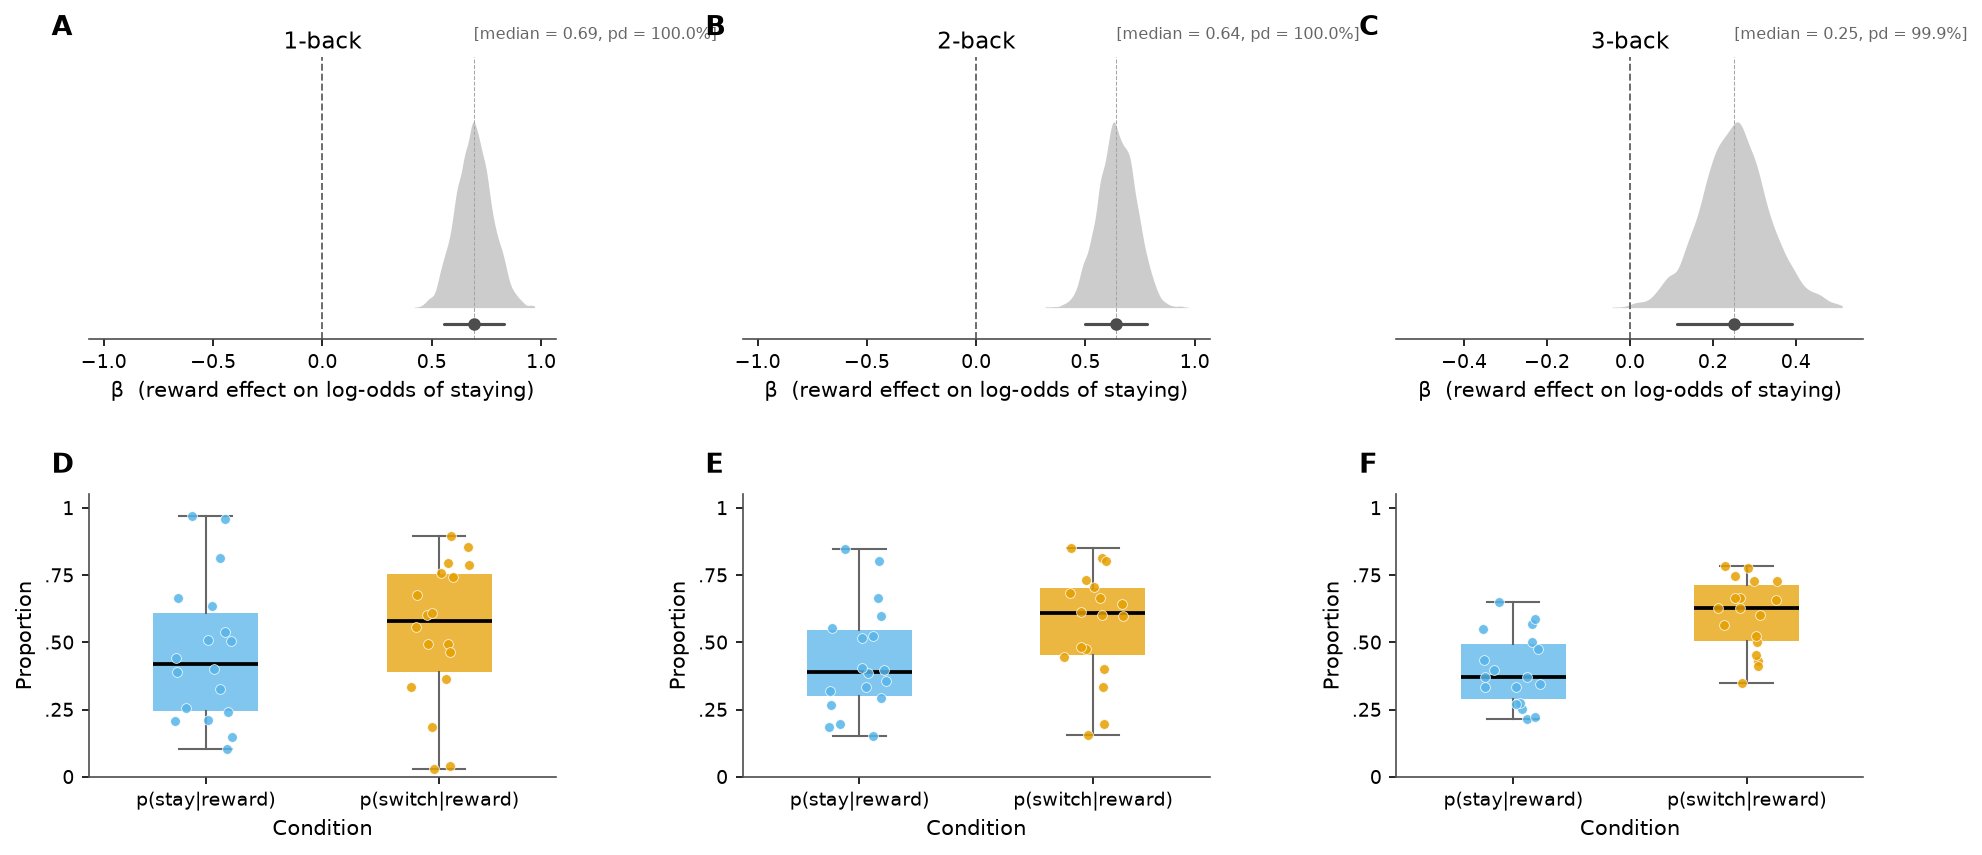
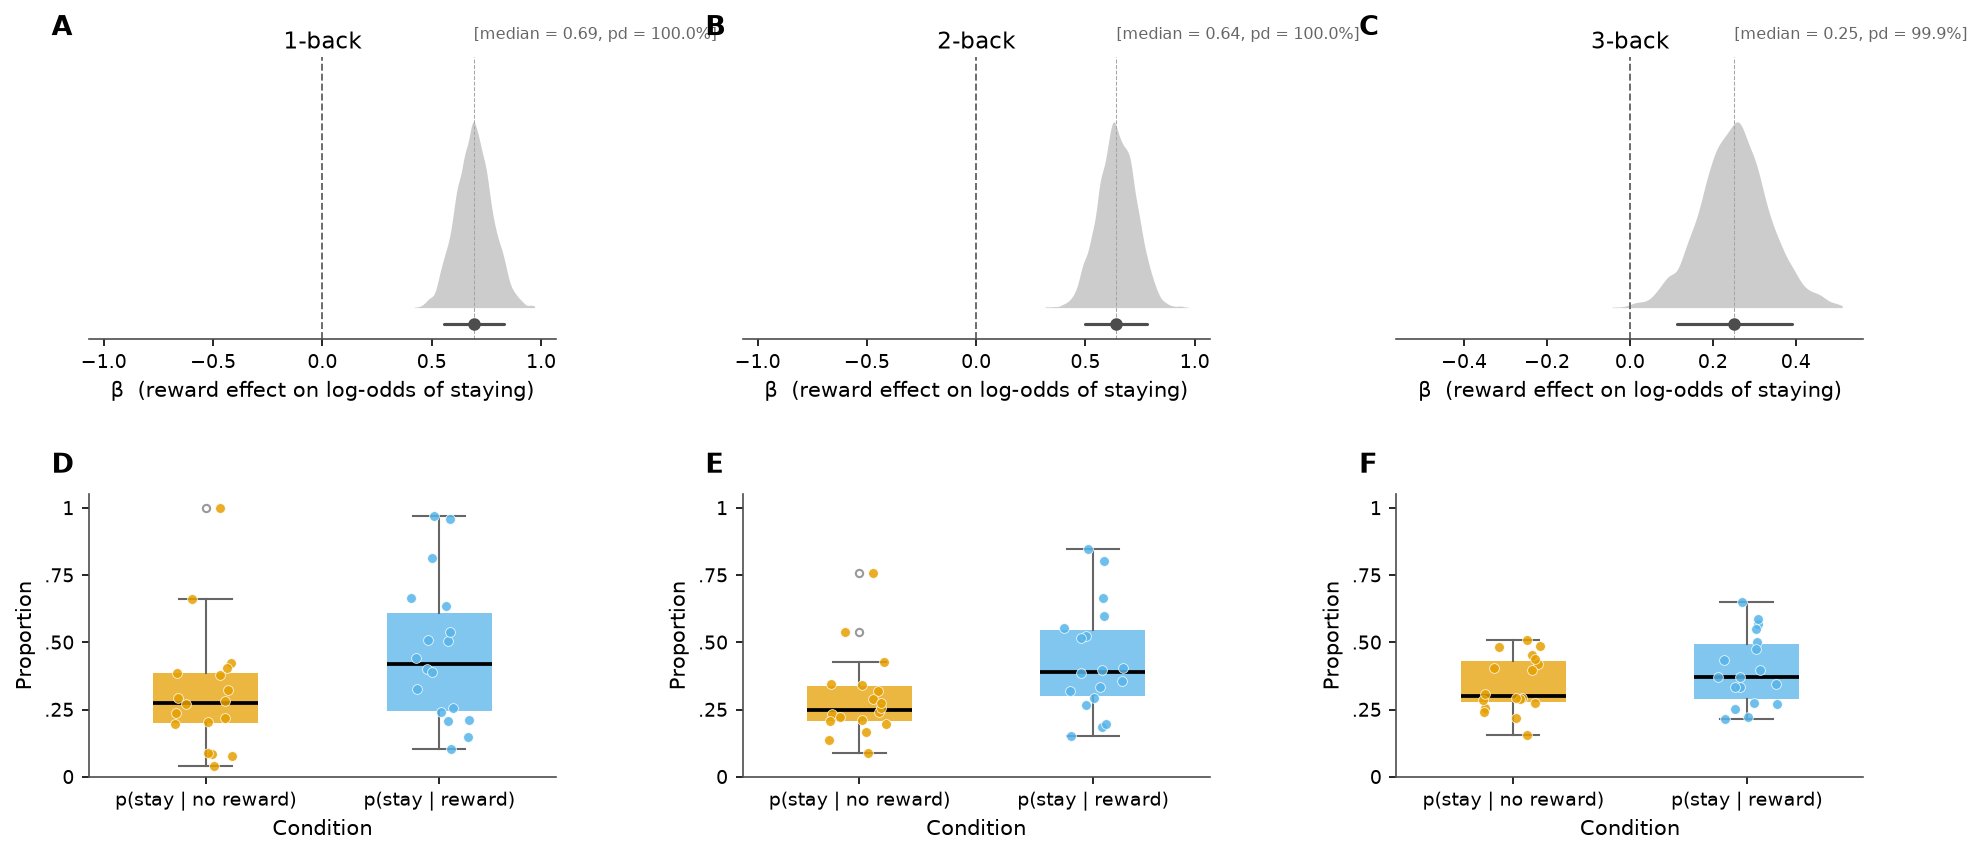
Fix boxplots: show p(stay|reward=0) vs p(stay|reward=1) per subject
Replaces the misleading p(stay) vs p(switch) comparison with the correct
WSLS comparison — p(stay) conditioned on the two reward outcomes.

Claude-Session: https://claude.ai/code/session_012x9xnxMCjZRKf3pY757v2o

diff --git a/analysis/wsls_pilot/run_wsls_pilot.py b/analysis/wsls_pilot/run_wsls_pilot.py
@@ -99,16 +99,14 @@ def fit_bayesian(df_lag):
     return idata.posterior["beta"].values.reshape(-1)
 
 def subj_props(df_lag):
-    rewarded = df_lag[df_lag["reward_nback"] == 1]
-    props = (
-        rewarded
-        .groupby("participant")["stay"]
+    """Per-subject p(stay|reward=1) and p(stay|reward=0)."""
+    return (
+        df_lag
+        .groupby(["participant", "reward_nback"])["stay"]
         .mean()
         .reset_index()
-        .rename(columns={"stay": "p_stay"})
+        .rename(columns={"stay": "p_stay", "reward_nback": "reward"})
     )
-    props["p_switch"] = 1 - props["p_stay"]
-    return props
 
 # ── panel helpers ─────────────────────────────────────────────────────────────
 
@@ -148,12 +146,14 @@ def beta_panel(ax, beta_draws, lag_label, add_xlabel=False):
     ax.tick_params(axis="x", labelsize=BASE_FS - 2)
 
 def box_panel(ax, props, add_xlabel=False):
-    """Boxplots of p(stay|reward) and p(switch|reward) per subject.
-    Colors: Okabe-Ito sky blue and orange."""
-    data_vals = [props["p_stay"].values, props["p_switch"].values]
+    """Boxplots of p(stay|reward=0) and p(stay|reward=1) per subject.
+    Colors: Okabe-Ito orange (no reward) and sky blue (reward)."""
+    no_rew    = props[props["reward"] == 0]["p_stay"].values
+    rew       = props[props["reward"] == 1]["p_stay"].values
+    data_vals = [no_rew, rew]
     positions = [1, 2]
-    colors    = [OI_BLUE, OI_ORANGE]
-    labels    = ["p(stay|reward)", "p(switch|reward)"]
+    colors    = [OI_ORANGE, OI_BLUE]
+    labels    = ["p(stay | no reward)", "p(stay | reward)"]
 
     bp = ax.boxplot(
         data_vals,
